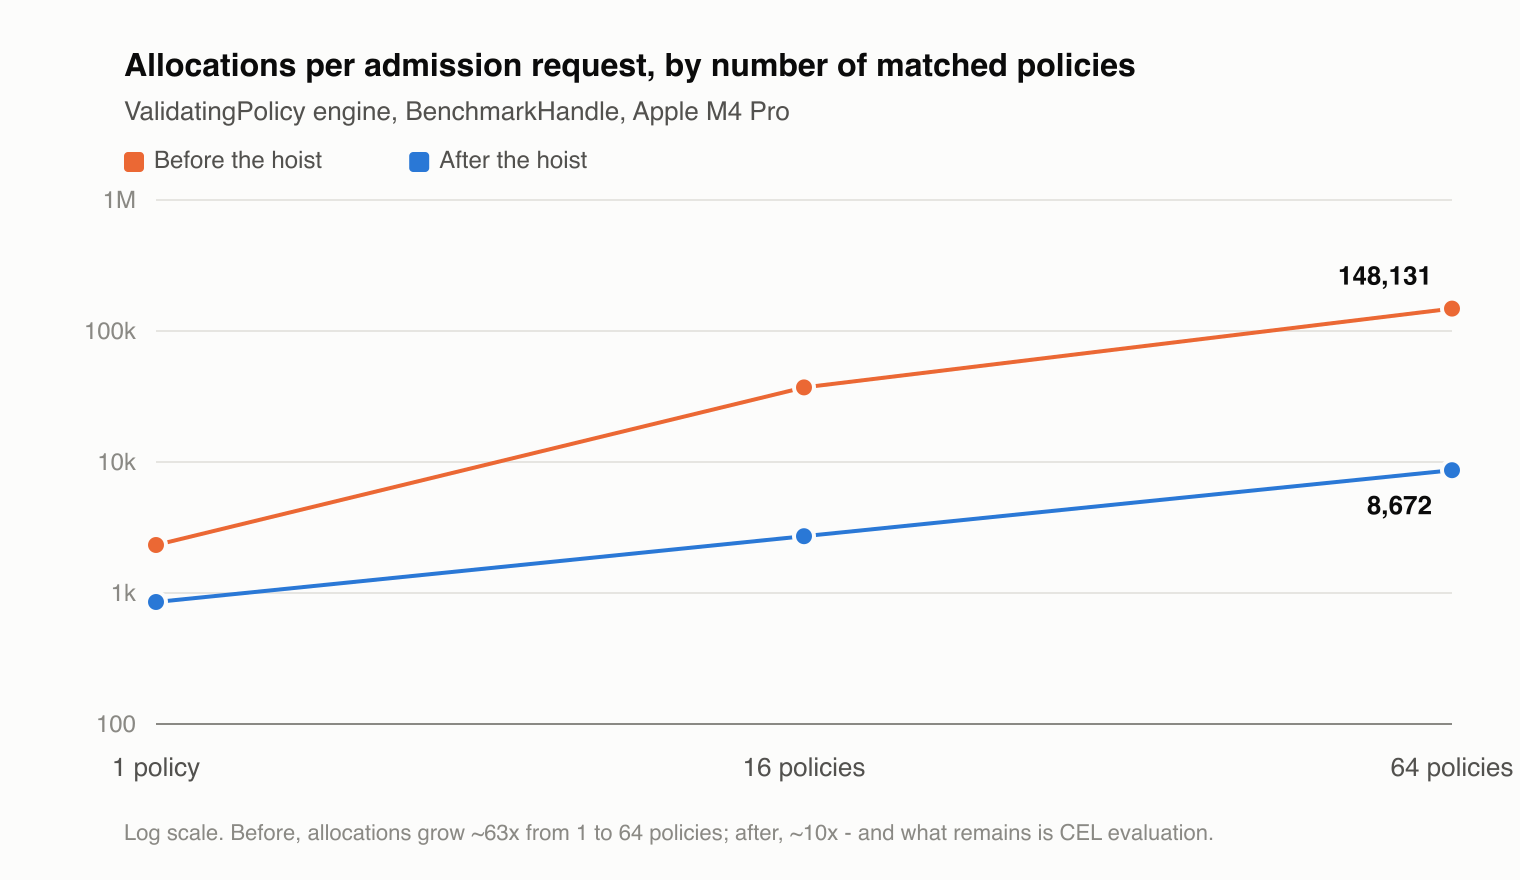
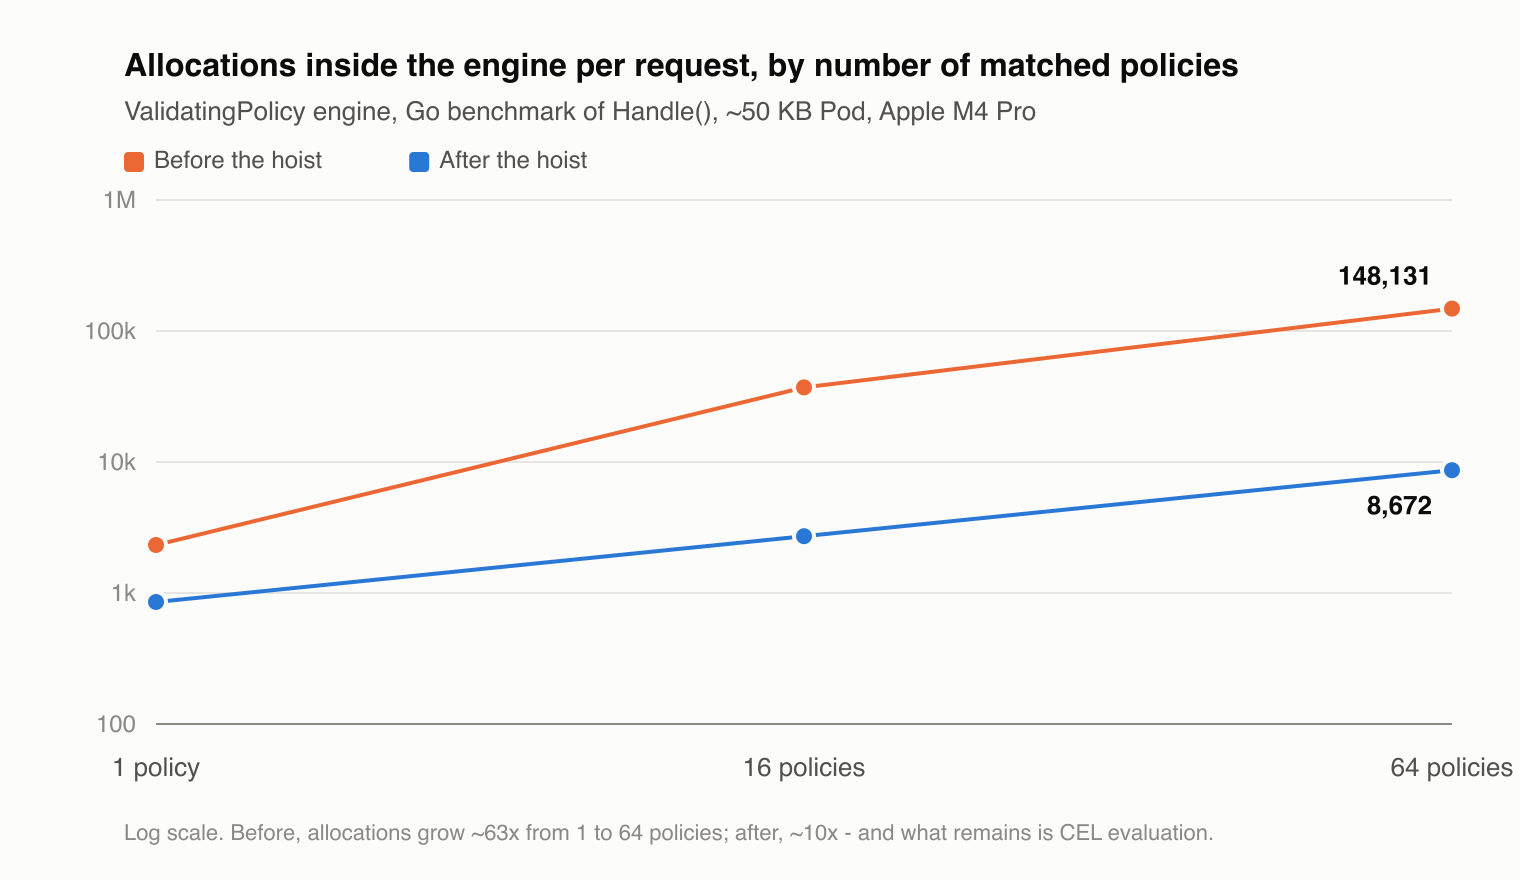
blog: label the benchmark numbers as engine time
The table read as admission latency. It measures the engine call alone
and excludes the webhook round trip, the API server, and etcd.

Changed region(s): [[0.1855, 0.0614, 0.8349, 0.1534]]

diff --git a/src/content/blog/kyverno-cel-admission-cost/index.md b/src/content/blog/kyverno-cel-admission-cost/index.md
@@ -64,17 +64,17 @@ Equivalence tests pin this down: they run the original code as the reference and
 
 ## What changed
 
-The benchmark drives the real per-policy loop with a realistically sized Pod and a varying number of matched policies.
+The benchmark calls the engine directly with a roughly 50 KB Pod and a varying number of matched policies. It times the engine alone — building the `request` value, matching, and evaluating CEL. It does not include the webhook round trip, the API server, or etcd, so these are not end-to-end admission latencies.
 
-![Allocations per admission request, by number of matched policies](./assets/c2-vpol-allocs-per-op.png)
+![Allocations inside the engine per request, by number of matched policies](./assets/c2-vpol-allocs-per-op.png)
 
-![Time per admission request, by number of matched policies](./assets/c3-vpol-time-per-op.png)
+![Engine time per request, by number of matched policies](./assets/c3-vpol-time-per-op.png)
 
-| Matched policies | Allocations before | Allocations after | Time before | Time after |
-| ---------------- | ------------------ | ----------------- | ----------- | ---------- |
-| 1                | 2,327              | 854               | 0.31 ms     | 0.10 ms    |
-| 16               | 37,055             | 2,718             | 4.91 ms     | 0.16 ms    |
-| 64               | 148,131            | 8,672             | 20.01 ms    | 0.36 ms    |
+| Matched policies | Allocations before | Allocations after | Engine time before | Engine time after |
+| ---------------- | ------------------ | ----------------- | ------------------ | ----------------- |
+| 1                | 2,327              | 854               | 0.31 ms            | 0.10 ms           |
+| 16               | 37,055             | 2,718             | 4.91 ms            | 0.16 ms           |
+| 64               | 148,131            | 8,672             | 20.01 ms           | 0.36 ms           |
 
 The `MutatingPolicy` engine improves on the same curve, from 258,943 to 52,689 allocations and 10.59 ms to 2.97 ms at 64 policies.
 
